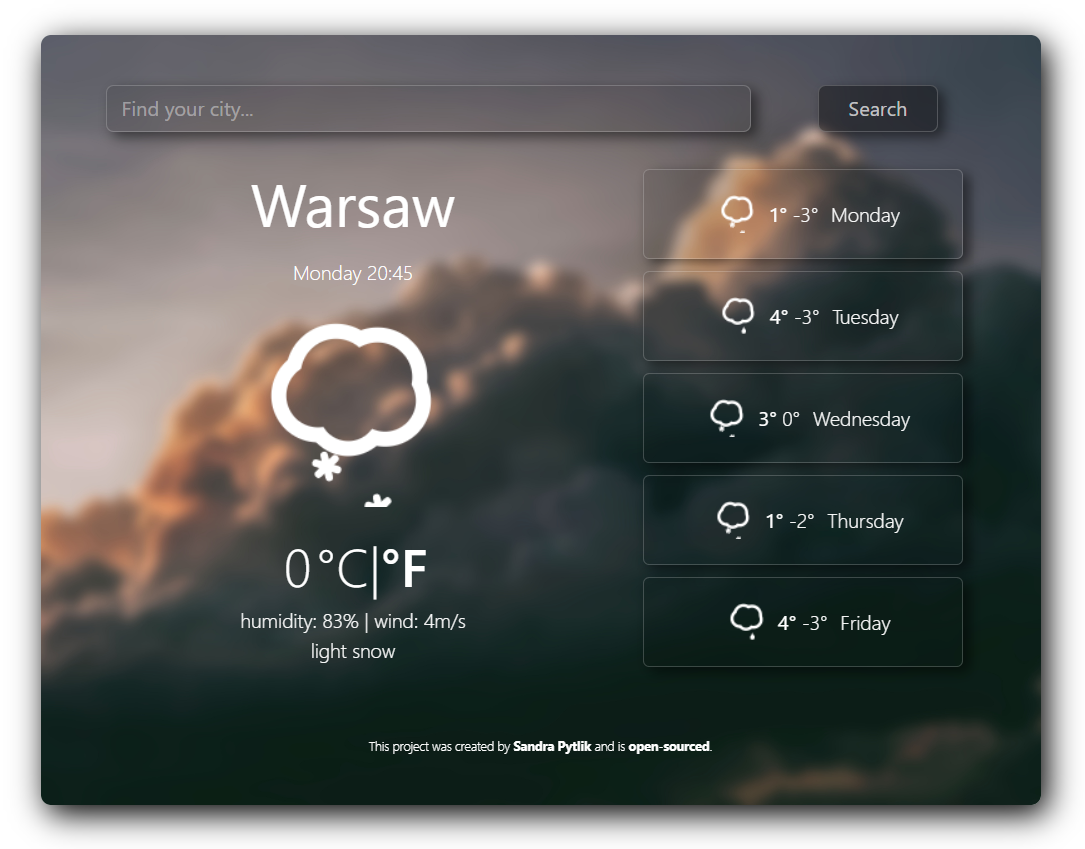
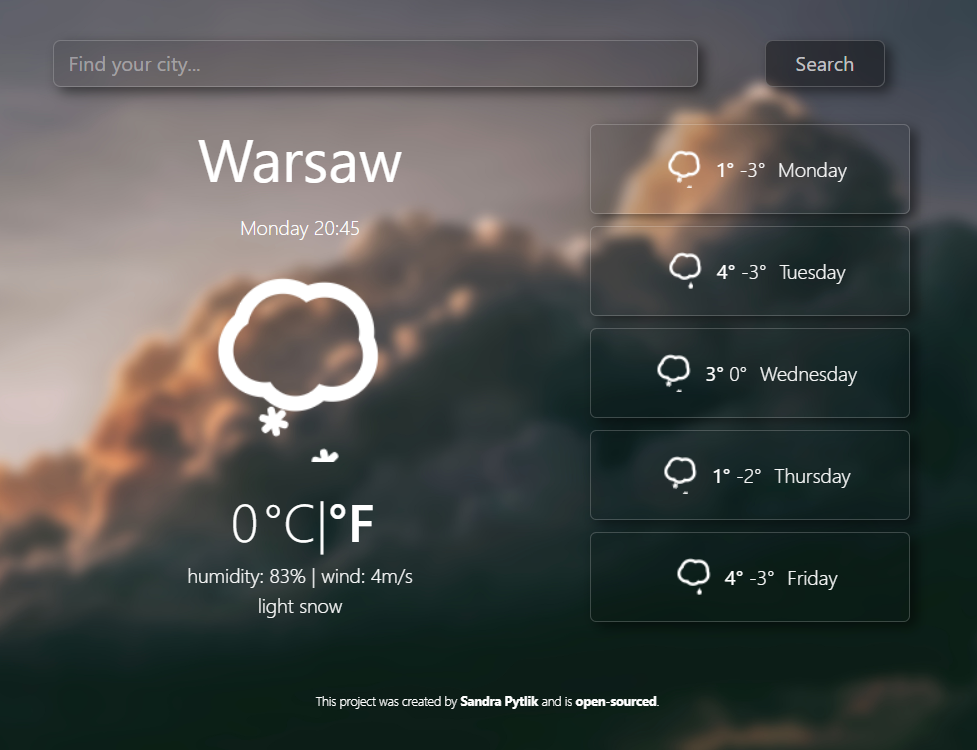
update style of homepage

diff --git a/styles/style.css b/styles/style.css
@@ -1,7 +1,8 @@
 :root {
   --secondary-color: rgba(0, 0, 0);
-  --primary-color: rgb(198, 216, 174);
-  --hover-color: #81a479;
+  --primary-color: rgb(225, 242, 201);
+  --hover-color: #80af73;
+  --extra-color: rgb(224, 161, 110);
   --background-color: rgba(94, 94, 94, 0.1);
   --default-font: "Raleway", sans-serif;
   --heading-font: "Roboto Slab", serif;
@@ -13,7 +14,7 @@ body {
 
 .background {
   padding-bottom: 20px;
-  background-color: rgba(0, 0, 0);
+  background-color: rgb(15, 14, 14);
 }
 
 .container-fluid {
@@ -23,7 +24,7 @@ body {
 h1 {
   color: var(--primary-color);
   font-weight: 500;
-  font-size: 74px;
+  font-size: 92px;
 }
 
 .hero-subpage h1 {
@@ -34,7 +35,8 @@ h1 {
 
 h2 {
   color: var(--hover-color);
-  font-size: 22px;
+  font-family: var(--heading-font);
+  font-size: 32px;
   font-weight: 200;
   font-style: italic;
   line-height: 1.5;
@@ -47,7 +49,7 @@ h2 {
 
 h3 {
   color: var(--primary-color);
-  font-size: 32px;
+  font-size: 24px;
   font-weight: 400;
   opacity: 70%;
 }
@@ -58,10 +60,21 @@ h3 {
 
 h4 {
   color: var(--primary-color);
-
   font-size: 64px;
   font-weight: bolder;
-  margin-bottom: 20px;
+  margin: 20px 0;
+}
+
+h5 {
+  font-family: var(--default-font);
+  font-weight: 300;
+  font-size: 40px;
+  font-style: italic;
+  margin-bottom: 40px;
+}
+
+.featured-header {
+  color: var(--extra-color);
 }
 
 p {
@@ -86,6 +99,7 @@ img {
   padding: 15px 30px;
   position: fixed;
   top: 0;
+  width: 100%;
 }
 
 nav ul {
@@ -106,15 +120,13 @@ nav li a {
   transition: all 180ms ease-in-out;
 }
 
+.active {
+  font-weight: 600;
+}
+
 .active,
 nav li a:hover {
   color: var(--hover-color);
-}
-
-.logo {
-  max-width: 220px;
-  float: left;
-  margin: 0 15px;
 }
 
 .hero {
@@ -126,6 +138,7 @@ nav li a:hover {
   background-position: center;
   background-repeat: no-repeat;
   background-size: cover;
+  text-align: center;
 }
 
 .hero-subpage {
@@ -209,7 +222,8 @@ nav li a:hover {
 }
 
 .button-branding {
-  background: rgba(29, 78, 50, 0.5);
+  background: rgba(50, 89, 41, 0.7);
+  border-radius: 0;
   color: #fff;
   font-family: var(--default-font);
   padding: 20px 40px;
@@ -221,6 +235,10 @@ nav li a:hover {
   color: #fff;
   background: rgba(53, 53, 53, 0.3);
   border: 1px solid #e3e7e5;
+}
+
+.button-featured {
+  background: rgba(224, 161, 110, 0.6);
 }
 
 .shecodes-profile,
@@ -324,6 +342,15 @@ footer .footer-information-github {
 
   p {
     font-size: 18px;
+  }
+
+  img {
+    min-width: 250px;
+  }
+
+  .homepage-content {
+    padding: 15px;
+    background-attachment: scroll;
   }
 
   .hero-subpage p {

diff --git a/index.html b/index.html
@@ -70,13 +70,13 @@
         >
       </div>
       <div class="container-fluid">
-        <h4 class="d-none d-lg-block text-center p-4">Featured</h4>
+        <h4 class="d-none d-lg-block text-center p-5">Featured</h4>
         <div class="projects-preview">
           <div
             class="homepage-content align-items-center justify-content-center shadow"
           >
             <div class="d-lg-block m-4">
-              <h3>React weather app</h3>
+              <h5 class="featured-header">React weather app</h5>
               <img
                 src="images/react-weather-app.png"
                 alt="Weather app preview"
@@ -86,32 +86,16 @@
             <div class="d-block">
               <a
                 href="https://glittering-bublanina-9cb523.netlify.app/"
-                class="btn button-branding shadow"
+                class="btn button-branding button-featured shadow"
                 target="_blank"
                 title="Weather app link"
-                >Launch weather App</a
+                >Launch weather app</a
               >
             </div>
           </div>
         </div>
       </div>
       <footer>
-        <div class="contact-box justify-content-between d-none d-xl-flex">
-          <div>
-            <h5>Work Inquiry</h5>
-            <p class="text-muted">
-              Let's work together and I'll help you with all my best.
-            </p>
-          </div>
-          <div>
-            <a
-              href="/contact.html"
-              class="btn button-branding shadow"
-              title="Contact Sandra"
-              >Contact me</a
-            >
-          </div>
-        </div>
         <div class="d-flex justify-content-center mb-5">
           <a
             href="mailto:skpytlik.no@gmail.com"
